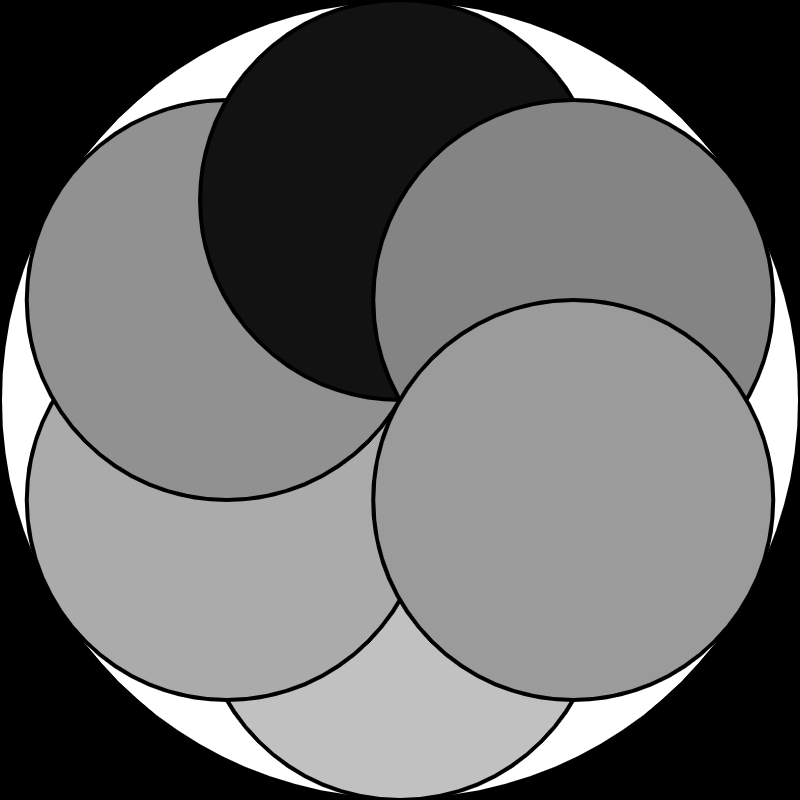
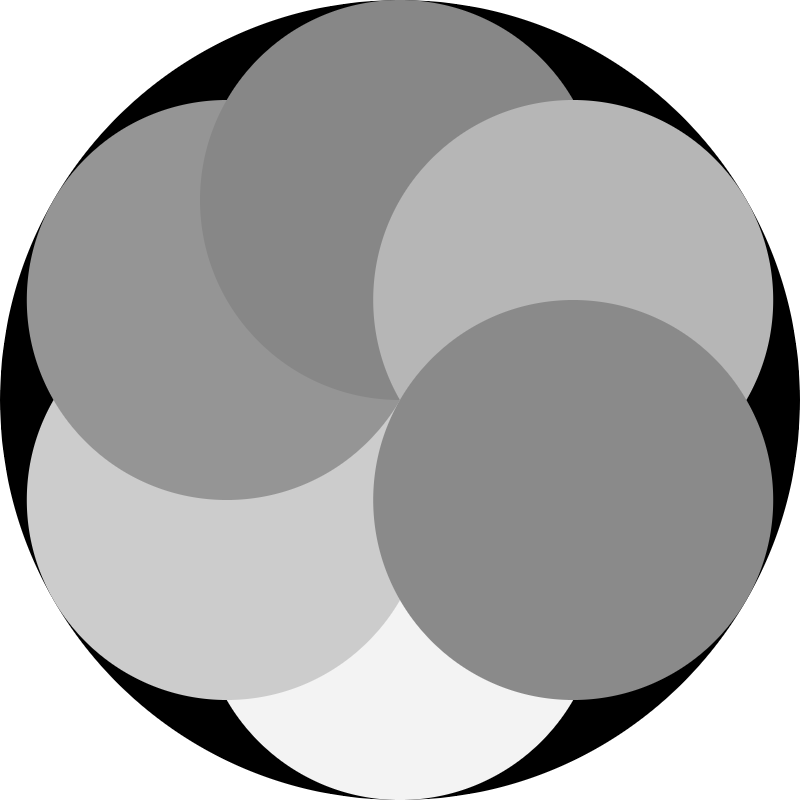
Color and Stroke change

diff --git a/code/task-04.2/sketch.js b/code/task-04.2/sketch.js
@@ -8,22 +8,22 @@ function setup() {
 function draw() {   
       
       noLoop();
-      background(0);
+      background(255);
 
-      fill(255)
-      strokeWeight(2);
+      fill(0)
+      strokeWeight(0);
       stroke("black")
       circle(sketchHeight/2, sketchWidth/2, sketchHeight);
       
      
-      stroke("black");
+      stroke("any");
 
       let radius = 200;
        
       let maxCount = 6;
       for (let circleCount = 0; circleCount < maxCount; circleCount += 1) {
         let theta = (Math.PI / 180) * (360 / maxCount * circleCount + 90);
-        fill(random(200))
+        fill(random(100,255))
     
         let x = radius / 2 * cos(theta);
         let y = radius / 2 * sin(theta);
